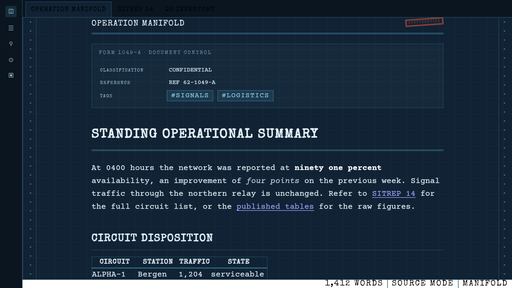
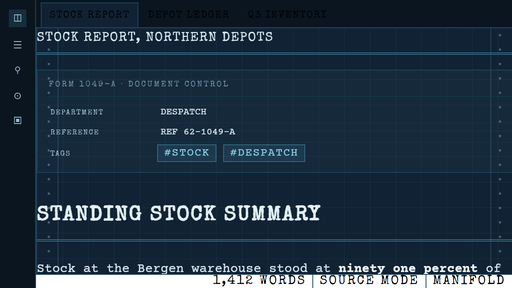
1.0.3: take the classified stamp out of the default look and restate the theme as a typewritten document rather than a cold-war one. Retune the preview document to a stationers stock report.

Changed region(s): [[0.0, 0.0, 1.0, 1.0]]

diff --git a/_preview/preview.html b/_preview/preview.html
@@ -99,12 +99,12 @@
           <div class="workspace-tab-header-container">
             <div class="workspace-tab-header is-active">
               <div class="workspace-tab-header-inner">
-                <div class="workspace-tab-header-inner-title">OPERATION MANIFOLD</div>
+                <div class="workspace-tab-header-inner-title">STOCK REPORT</div>
               </div>
             </div>
             <div class="workspace-tab-header">
               <div class="workspace-tab-header-inner">
-                <div class="workspace-tab-header-inner-title">SITREP 14</div>
+                <div class="workspace-tab-header-inner-title">DEPOT LEDGER</div>
               </div>
             </div>
             <div class="workspace-tab-header">
@@ -123,13 +123,13 @@
                   <div class="markdown-preview-view markdown-rendered show-properties is-readable-line-width">
                     <div class="markdown-preview-sizer markdown-preview-section">
 
-                      <div class="inline-title">Operation Manifold</div>
+                      <div class="inline-title">Stock report, northern depots</div>
 
                       <div class="metadata-container">
                         <div class="metadata-properties">
                           <div class="metadata-property">
-                            <div class="metadata-property-key"><input class="metadata-property-key-input" value="classification" readonly></div>
-                            <div class="metadata-property-value"><div class="metadata-input">CONFIDENTIAL</div></div>
+                            <div class="metadata-property-key"><input class="metadata-property-key-input" value="department" readonly></div>
+                            <div class="metadata-property-value"><div class="metadata-input">DESPATCH</div></div>
                           </div>
                           <div class="metadata-property">
                             <div class="metadata-property-key"><input class="metadata-property-key-input" value="reference" readonly></div>
@@ -137,57 +137,57 @@
                           </div>
                           <div class="metadata-property">
                             <div class="metadata-property-key"><input class="metadata-property-key-input" value="tags" readonly></div>
-                            <div class="metadata-property-value"><a class="tag">#signals</a> <a class="tag">#logistics</a></div>
+                            <div class="metadata-property-value"><a class="tag">#stock</a> <a class="tag">#despatch</a></div>
                           </div>
                         </div>
                       </div>
 
-                      <h1>Standing operational summary</h1>
+                      <h1>Standing stock summary</h1>
 
-                      <p>At 0400 hours the network was reported at <strong>ninety one percent</strong>
-                      availability, an improvement of <em>four points</em> on the previous week.
-                      Signal traffic through the northern relay is unchanged. Refer to
-                      <a class="internal-link" href="#">SITREP 14</a> for the full circuit list, or the
+                      <p>Stock at the Bergen warehouse stood at <strong>ninety one percent</strong>
+                      of capacity, an improvement of <em>four points</em> on the previous quarter.
+                      Deliveries through the northern depot are unchanged. Refer to
+                      <a class="internal-link" href="#">DEPOT LEDGER</a> for the full item list, or the
                       <a class="external-link" href="#">published tables</a> for the raw figures.</p>
 
-                      <h2>Circuit disposition</h2>
+                      <h2>Depot stock</h2>
 
                       <table>
                         <thead>
-                          <tr><th>Circuit</th><th>Station</th><th class="has-text-align-right">Traffic</th><th>State</th></tr>
+                          <tr><th>Depot</th><th>Town</th><th class="has-text-align-right">Sheets</th><th>Condition</th></tr>
                         </thead>
                         <tbody>
-                          <tr><td>ALPHA-1</td><td>Bergen</td><td>1,204</td><td>serviceable</td></tr>
-                          <tr><td>ALPHA-2</td><td>Bodo</td><td>988</td><td>serviceable</td></tr>
-                          <tr><td>BRAVO-4</td><td>Tromso</td><td>412</td><td>degraded</td></tr>
-                          <tr><td>BRAVO-7</td><td>Kirkenes</td><td>96</td><td>serviceable</td></tr>
-                          <tr><td>CHARLIE-2</td><td>Oslo</td><td>2,331</td><td>serviceable</td></tr>
+                          <tr><td>D-1</td><td>Bergen</td><td>1,204</td><td>complete</td></tr>
+                          <tr><td>D-2</td><td>Bodo</td><td>988</td><td>complete</td></tr>
+                          <tr><td>D-4</td><td>Tromso</td><td>412</td><td>short</td></tr>
+                          <tr><td>D-7</td><td>Kirkenes</td><td>96</td><td>complete</td></tr>
+                          <tr><td>D-9</td><td>Oslo</td><td>2,331</td><td>on order</td></tr>
                         </tbody>
                       </table>
 
-                      <h3>Checks before handover</h3>
+                      <h3>Checks before despatch</h3>
 
                       <ul>
-                        <li>Confirm the daily key list against the printed sheet.</li>
+                        <li>Confirm the despatch note against the printed sheet.</li>
                         <li>Rotate the <a class="internal-link" href="#">courier register</a> and initial the page.
                           <ul>
                             <li>Two signatures are required after 2200.</li>
                             <li>File the carbon copy, not the top sheet.</li>
                           </ul>
                         </li>
-                        <li>Report any deviation to the duty officer.</li>
+                        <li>Report any shortfall to the despatch clerk.</li>
                       </ul>
 
-                      <h4>Handover actions</h4>
+                      <h4>Despatch actions</h4>
                       <ul class="contains-task-list">
-                        <li class="task-list-item"><input type="checkbox" class="task-list-item-checkbox" checked> <del>Print the traffic summary</del></li>
-                        <li class="task-list-item"><input type="checkbox" class="task-list-item-checkbox"> Distribute to the watch</li>
+                        <li class="task-list-item"><input type="checkbox" class="task-list-item-checkbox" checked> <del>Print the stock summary</del></li>
+                        <li class="task-list-item"><input type="checkbox" class="task-list-item-checkbox"> Distribute to the depots</li>
                         <li class="task-list-item"><input type="checkbox" class="task-list-item-checkbox"> Log the time of issue</li>
                       </ul>
 
                       <blockquote>
-                        <p>Procedures are written for the man who is tired, cold and working by
-                        torchlight. If a step can be read two ways, it is wrong.</p>
+                        <p>A procedure is written for the clerk who is tired and in a hurry. If a
+                        step can be read two ways, it is wrong.</p>
                       </blockquote>
 
                       <h5>Extract of standing order 14</h5>
@@ -195,8 +195,8 @@
                       <div class="callout" data-callout="warning" style="--callout-color: #8d6110">
                         <div class="callout-title"><div class="callout-title-inner">Warning</div></div>
                         <div class="callout-content">
-                          <p>Transmissions above 40 words per minute were not readable at the receiving
-                          station. Hold to 25.</p>
+                          <p>Sheets typed above 40 words a minute were not legible on the carbon.
+                          Hold to 25.</p>
                         </div>
                       </div>
 
@@ -208,32 +208,32 @@
                         </div>
                       </div>
 
-                      <p>A single line of code, <code>RELAY --north --key 62</code>, is enough to open the circuit.
+                      <p>A single line of code, <code>DESPATCH --north --sheet 62</code>, prints the northern depot run.
                       The full procedure is below.</p>
 
-                      <pre><code>def dispatch(entries, window=timedelta(hours=6)):
-    """Send every queued entry inside the reporting window."""
+                      <pre><code>def despatch(entries, window=timedelta(hours=6)):
+    """Print every queued entry inside the reporting window."""
     sent = 0
     for entry in entries:
         if entry.age > window:
             log.warn("stale entry, holding for review")
             continue
-        if not entry.keyed:
-            raise DispatchError("entry not keyed")
-        relay.send(entry.payload, key=entry.key)
+        if not entry.checked:
+            raise DespatchError("entry not checked")
+        printer.run(entry.sheet, copies=entry.copies)
         sent += 1
     return sent</code></pre>
 
-                      <p>Wrap-up notes carry the usual marking, a <mark>subject line</mark> in capitals,
-                      and the classification stamp. Anything else is discarded at the registry.</p>
+                      <p>Despatch notes carry the usual marking, a <mark>subject line</mark> in capitals,
+                      and the reference number. Anything else goes back to the ledger.</p>
 
-                      <p>The <mark class="redacted">Kirkenes relay station</mark> was struck from the
-                      circuit list on <mark class="redacted">14 March 1962</mark>, pending a decision on
-                      replacement equipment.</p>
+                      <p>The <mark class="redacted">Kirkenes depot</mark> was struck from the
+                      ledger on <mark class="redacted">14 March 1962</mark>, pending a decision on
+                      new shelving.</p>
 
                       <hr>
 
-                      <p><small>Filed under #operations, #coldline. Superseded copies are destroyed.</small></p>
+                      <p><small>Filed under #stock, #despatch. Superseded copies are destroyed.</small></p>
 
                     </div>
                   </div>

diff --git a/theme.css b/theme.css
@@ -1,7 +1,7 @@
 /* ==========================================================================
    MANIFOLD
-   A cold-war era typewritten document theme for Obsidian.
-   Continuous-form manifold paper, carbon-copy ink, rubber stamps.
+   A typewritten document theme for Obsidian.
+   Continuous-form manifold paper, carbon-copy ink, machine-written documents.
 
    Light  · MANIFOLD   aged cream manifold paper, typewriter black, carbon blue
    Dark   · CYANOTYPE  prussian blueprint sheet, chalk white, cyan
@@ -136,16 +136,17 @@ settings:
     default: '"CONFIDENTIAL"'
   -
     id: manifold-choice-stamp-display
-    title: Stamp
+    title: Rubber stamp beside the title
+    description: Off by default. Turn it on to print a stamp in the corner of the title line.
     type: variable-select
-    default: block
+    default: none
     options:
-      -
-        label: Show
-        value: block
       -
         label: Hide
         value: none
+      -
+        label: Show
+        value: block
   -
     id: manifold-choice-footer-text
     title: Closing line
@@ -372,7 +373,7 @@ body {
   --manifold-accent: var(--manifold-choice-accent, #27467f);
   --manifold-perforation: var(--manifold-choice-perforation, #b0a483);
   --manifold-stamp-text: var(--manifold-choice-stamp-text, "CONFIDENTIAL");
-  --manifold-stamp-display: var(--manifold-choice-stamp-display, block);
+  --manifold-stamp-display: var(--manifold-choice-stamp-display, none);
   --manifold-footer-text: var(--manifold-choice-footer-text, "— END OF DOCUMENT —");
   --manifold-greenbar-alpha: var(--manifold-choice-greenbar-alpha, 0.3);
   --manifold-ink-bleed: var(--manifold-choice-ink-bleed, 0.25);
@@ -635,7 +636,7 @@ body {
   --manifold-accent: var(--manifold-choice-accent, #56b3d4);
   --manifold-perforation: var(--manifold-choice-perforation, rgba(160, 205, 230, 0.35));
   --manifold-stamp-text: var(--manifold-choice-stamp-text, "CONFIDENTIAL");
-  --manifold-stamp-display: var(--manifold-choice-stamp-display, block);
+  --manifold-stamp-display: var(--manifold-choice-stamp-display, none);
   --manifold-footer-text: var(--manifold-choice-footer-text, "— END OF DOCUMENT —");
   --manifold-greenbar-alpha: var(--manifold-choice-greenbar-alpha, 0.1);
   --manifold-ink-bleed: var(--manifold-choice-ink-bleed, 0.3);

diff --git a/README.md b/README.md
@@ -1,8 +1,13 @@
 # Manifold
 
-A typewritten document theme for Obsidian. Cold war era paperwork: continuous
-form manifold paper, carbon copy ink, stencil section labels and a rubber stamp
-on every document.
+A typewritten document theme for Obsidian. Machine-written paperwork: continuous
+form manifold paper with tractor-feed edges, carbon copy ink, stencil section
+labels, and fan-fold green-bar banding.
+
+The part worth having is the redaction. Selecting a passage lays a bar over it and
+knocks the glyphs out, and a passage marked as `<mark class="redacted">` stays
+blacked out in reading view and in print. The companion plugin places that mark
+from the editor, with a hotkey or the right-click menu.
 
 ![Manifold, the cream manifold sheet](./images/screenshot.png)
 
@@ -10,12 +15,11 @@ on every document.
 
 Two sheets:
 
-- **Light, MANIFOLD.** Aged cream manifold paper, black typewriter ribbon,
-  carbon copy blue for links and accents, red stamp. Fan-fold green-bar banding
-  on tables and code.
+- **Light, MANIFOLD.** Aged cream manifold paper, black typewriter ribbon, carbon
+  copy blue for links and accents. Fan-fold green-bar banding on tables and code.
 - **Dark, CYANOTYPE.** The same document reproduced as an engineering blueprint.
   Prussian blue sheet, weak cyan draughtsman's grid, chalk white type, chart cyan
-  accents, red stamp.
+  accents.
 
 ## Install
 
@@ -35,7 +39,7 @@ Paper and ink
 - Tractor-feed perforations down both edges of the sheet, with the margin rule a
   continuous form printer leaves behind.
 - Paper grain in light mode, a 32 px draughtsman's grid in dark mode.
-- Ink bleed: a fraction of a pixel of offset on body text so the ribbon reads as
+- Ink bleed: a fraction of a pixel of offset on body text, so the ribbon reads as
   pressed onto paper rather than rendered by a screen.
 
 Typography
@@ -43,20 +47,19 @@ Typography
 - Courier Prime everywhere, including the interface, so the whole machine reads
   as one typewriter.
 - Special Elite for headings and labels. H1 and H2 are separated by rules, not by
-  size alone. H4 through H6 are small boxed labels, the sort printed on a
-  government form.
+  size alone. H4 through H6 are small boxed labels, the sort printed on a form.
 
 Document furniture
 
-- A rubber stamp printed beside the note title. Text and visibility are both
-  configurable.
+- A rubber stamp beside the note title, off by default. Set
+  `--manifold-choice-stamp-display` to `block` to print one.
 - Selecting text lays a redaction bar over it and knocks the glyphs out, so the
   passage is unreadable while the selection is held. Releasing the selection
   restores it. Nothing on disk is touched.
 - A passage can also be redacted for good, so the bar stays after the selection
   is gone. That needs the companion plugin, see below.
 - The properties block is styled as a document control form, headed FORM 1049-A.
-- A dashed cut line for horizontal rules and a closing line at the end of every
+- A dashed cut line for horizontal rules, and a closing line at the end of every
   document in reading view.
 
 Structure
@@ -70,6 +73,7 @@ Structure
 - Every radius in the application is 0. Menus, modals, tabs, toggles, scrollbars
   and buttons are square and hairline ruled.
 - Period callout palette only: cobalt, teal, olive, amber, signal red, graphite.
+- A print stylesheet, so the document prints as paper rather than as a screen.
 
 ## Redacting a passage for good
 
@@ -77,16 +81,15 @@ The theme draws a permanent bar for any passage marked as
 `<mark class="redacted">words</mark>`. Typing that by hand works, but the
 companion plugin does it for you:
 
-- Right-click a selection and choose **Redact selection**.
-- Or select and press Ctrl+Shift+R. On a Mac it is Cmd+Shift+R.
+- Right-click a selection and choose Redact selection.
+- Or bind a hotkey to "Manifold Redaction: Toggle redaction on the selection".
 - Run it again on the same passage to lift the bar. Select the whole thing, or
   just put the cursor inside it, and run it once more.
 
-The plugin lives in `.obsidian/plugins/manifold-redact/`. It is already switched
-on and the hotkey is already bound, written into `.obsidian/community-plugins.json`
-and `.obsidian/hotkeys.json`. Press Ctrl+R in Obsidian, or restart it, to load
-the plugin. If the hotkey does not take, set it by hand in Settings, Hotkeys,
-under "Manifold Redaction: Toggle redaction on the selection".
+The plugin has its own repository,
+https://github.com/VibeCoderToolkit/obsidian-manifold-redact, and installing it
+is a folder copy. Existing redactions keep rendering without it, because the bar
+is theme CSS.
 
 In the editor the line you are working on lifts its overlay so the passage can be
 read and edited, and the bar closes again when you move the cursor away. In
@@ -100,21 +103,21 @@ will still see them. If a passage genuinely must not be read, delete it.
 
 The theme exposes its knobs as CSS variables on `body`. Set them in a CSS
 snippet (Settings, Appearance, CSS snippets) inside a `body { }` rule, or install
-the community plugin **Style Settings** and use the Manifold panel, which is
-already declared in the theme.
+the community plugin Style Settings and use the Manifold panel, which is already
+declared in the theme.
 
 | Variable | Default | Meaning |
 | --- | --- | --- |
 | `--manifold-choice-paper` | `#f1ecdc` | Sheet colour for light mode |
 | `--manifold-choice-ink` | `#2b2a24` | Ribbon colour |
-| `--manifold-choice-accent` | `#27467f` | Accent (carbon blue in light, cyan in dark) |
+| `--manifold-choice-accent` | `#27467f` | Accent, carbon blue in light, cyan in dark |
 | `--manifold-choice-perforation` | `#b0a483` | Tractor-feed hole ink |
-| `--manifold-choice-stamp-text` | `"CONFIDENTIAL"` | Stamp wording, quotes included |
-| `--manifold-choice-stamp-display` | `block` | `none` hides the stamp |
-| `--manifold-choice-footer-text` | `"END OF DOCUMENT"` line | Closing line, quotes included |
 | `--manifold-choice-redaction` | `#000000` | Bar laid over selected text. Black on the cream sheet, the ink colour on the blueprint. |
 | `--manifold-choice-greenbar-alpha` | `0.3` | Green-bar strength, 0 disables |
 | `--manifold-choice-ink-bleed` | `0.25` | Ink weight on the paper, 0 for a new ribbon |
+| `--manifold-choice-stamp-display` | `none` | `block` prints the rubber stamp beside the title |
+| `--manifold-choice-stamp-text` | `"CONFIDENTIAL"` | Stamp wording, used only when the stamp is shown |
+| `--manifold-choice-footer-text` | `"END OF DOCUMENT"` line | Closing line, quotes included |
 
 The Style Settings values are read through a fallback, so an override applies in
 both light and dark mode. If you want light and dark to differ, set
@@ -122,7 +125,7 @@ both light and dark mode. If you want light and dark to differ, set
 `.theme-light { }` and `.theme-dark { }` snippet instead.
 
 To start from a different stock entirely, copy the theme folder and edit the
-"TUNABLE" block at the top of `.theme-light` in `theme.css`.
+TUNABLE block at the top of `.theme-light` in `theme.css`.
 
 ## Files
 
@@ -130,22 +133,18 @@ To start from a different stock entirely, copy the theme folder and edit the
 Manifold/
   manifest.json
   theme.css            the whole theme
-  fonts/               Courier Prime ×4, Special Elite ×1
+  fonts/               Courier Prime x4, Special Elite x1
+  images/              screenshots, 512x288 for the directory and 1200x800 for the listing
   _preview/            a standalone HTML harness, useful for design changes
 ```
 
 `_preview/preview.html` renders the same markup Obsidian produces for a reading
 view, so a change to `theme.css` can be judged in a browser without switching
-themes. Delete the folder if you do not want it.
-
-The companion redaction plugin is not part of the theme folder and has its own
-repository, https://github.com/VibeCoderToolkit/obsidian-manifold-redact. Copy
-the `manifold-redact` folder from there into `<vault>/.obsidian/plugins/` and
-enable it. Existing redactions keep rendering without it, because the bar is
-theme CSS.
+themes. Serve the folder over http if you want the bundled fonts to load, since
+browsers refuse fonts over `file://`. Delete the folder if you do not want it.
 
 ## Licence
 
-Courier Prime is (c) Quote-Unquote Apps, SIL Open Font License 1.1.
-Special Elite is (c) Astigmatic / Brian J. Bonislawsky, Apache License 2.0.
-The theme CSS is yours to do with as you like.
+The theme CSS is MIT, see LICENSE. Courier Prime is (c) Quote-Unquote Apps, SIL
+Open Font License 1.1. Special Elite is (c) Astigmatic, Brian J. Bonislawsky,
+Apache License 2.0. Both licence texts ship in `fonts/`.
